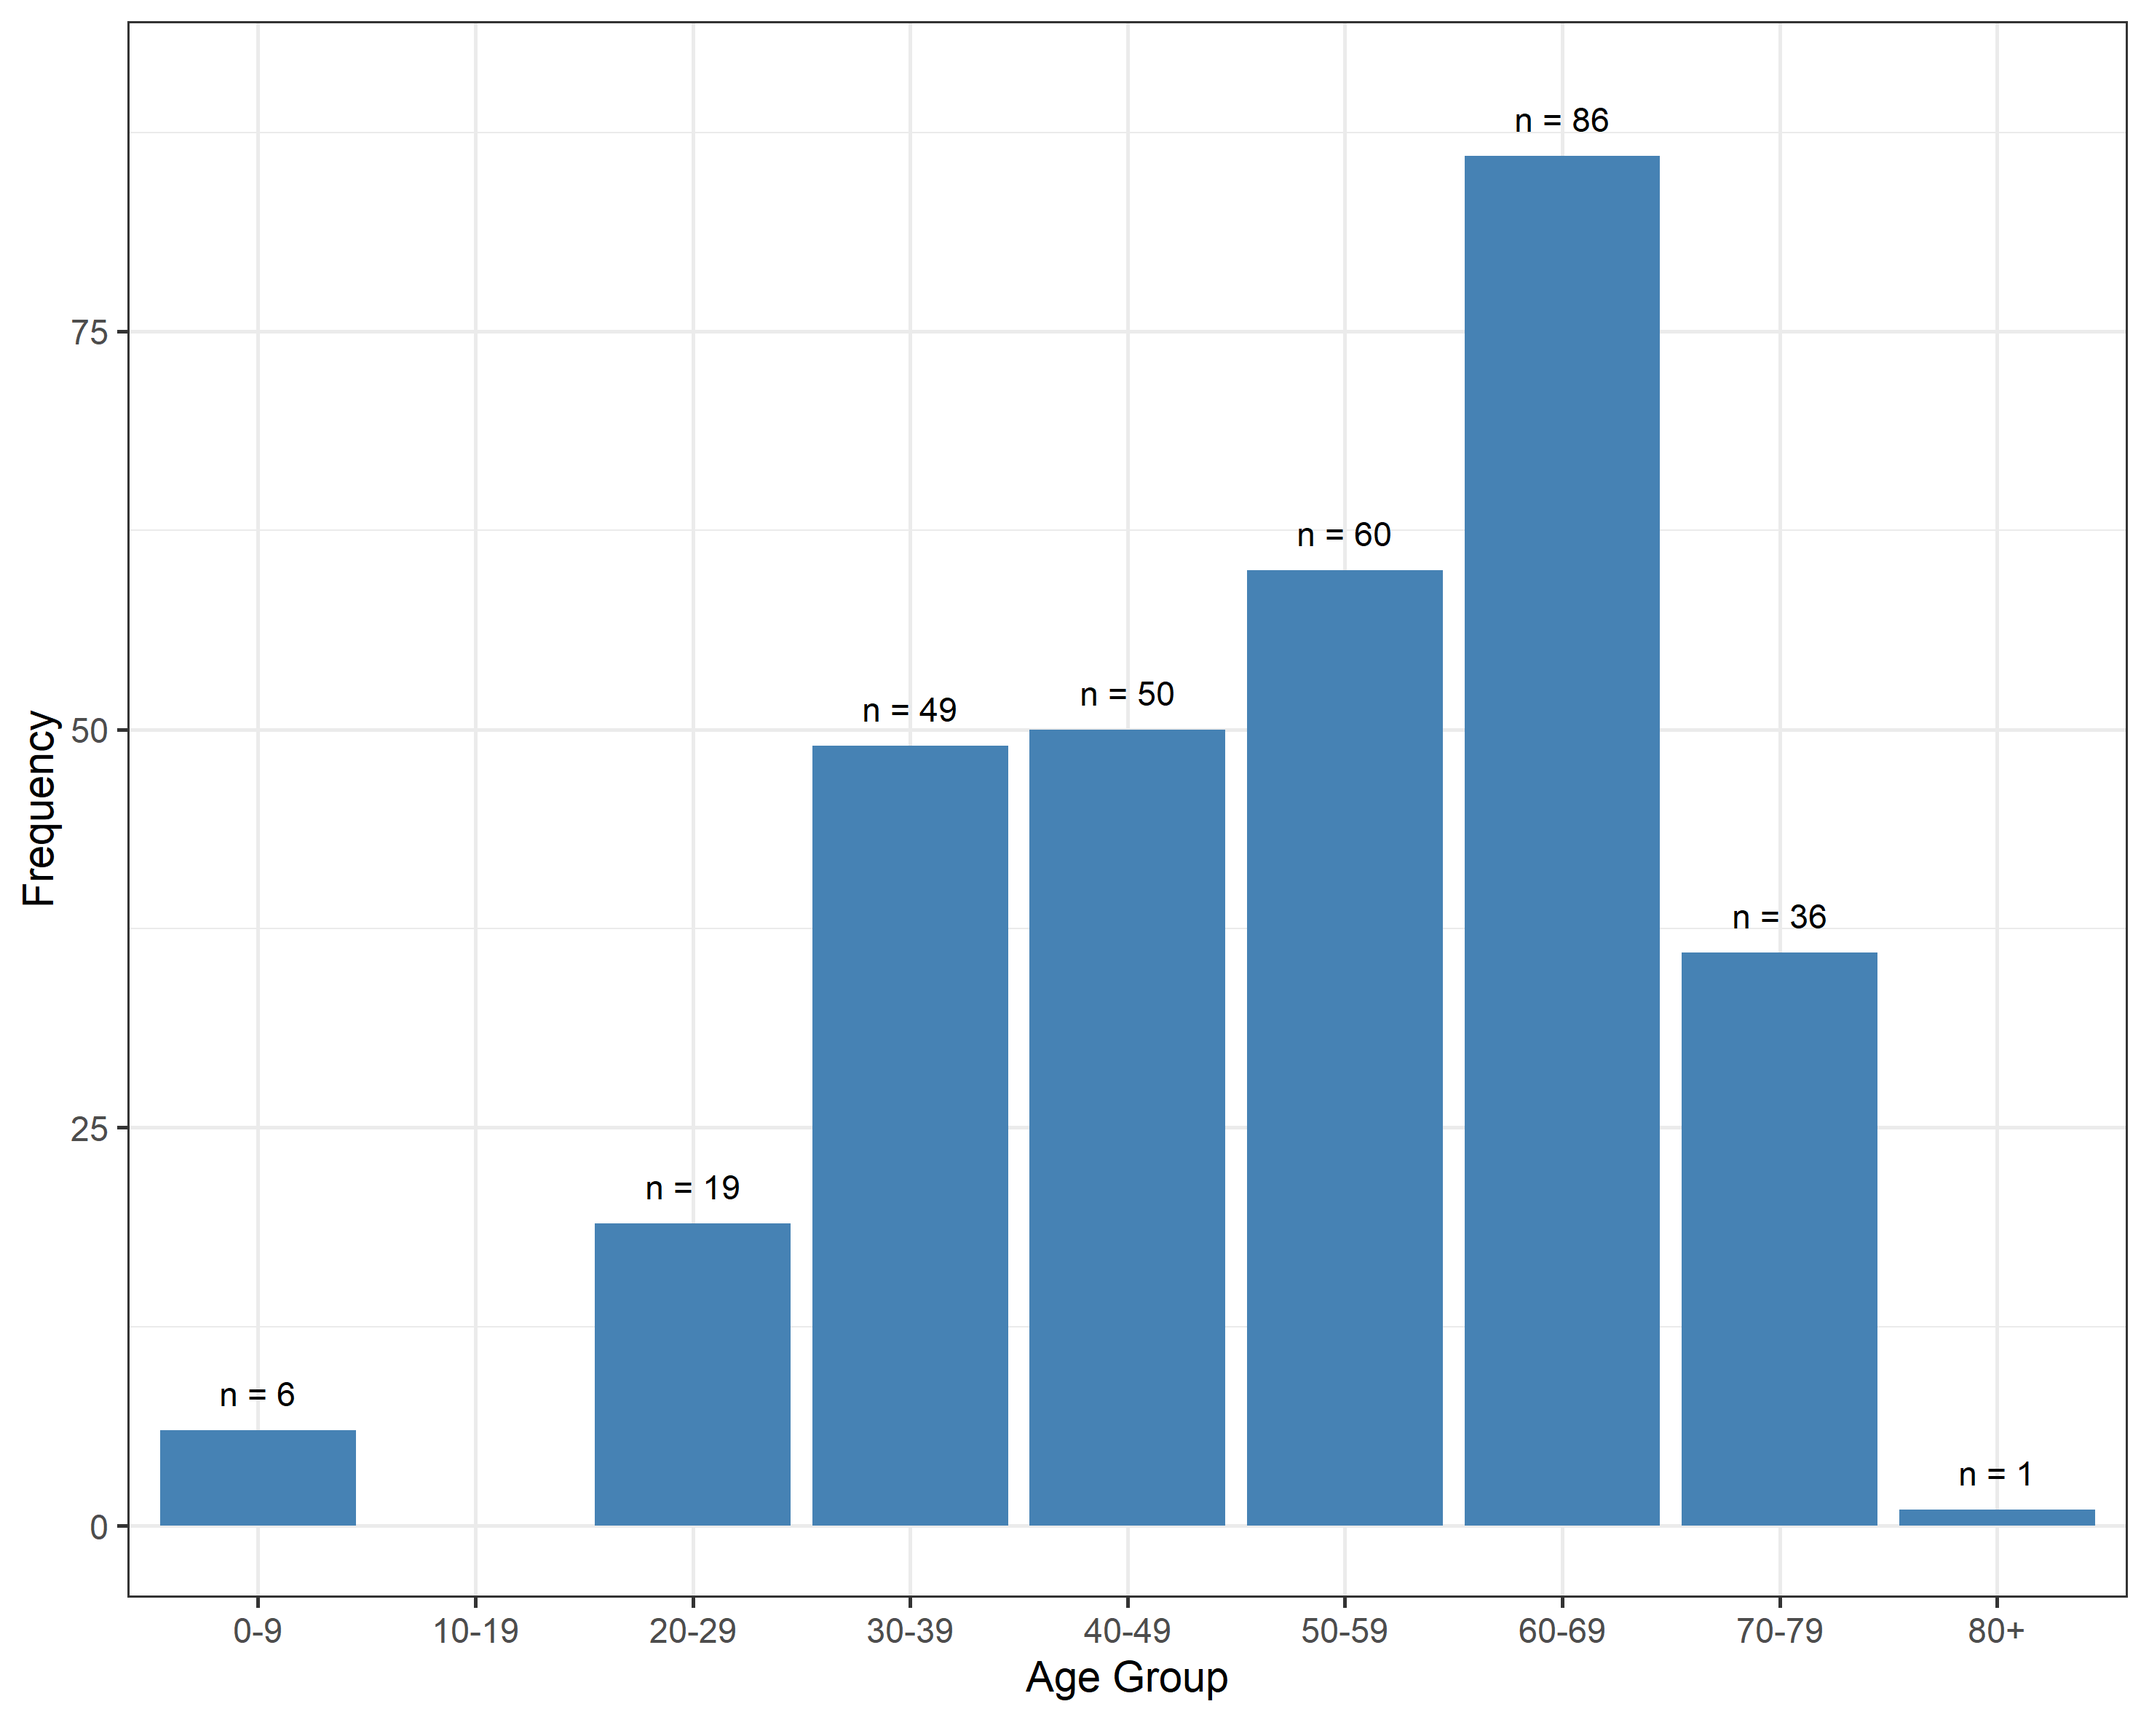
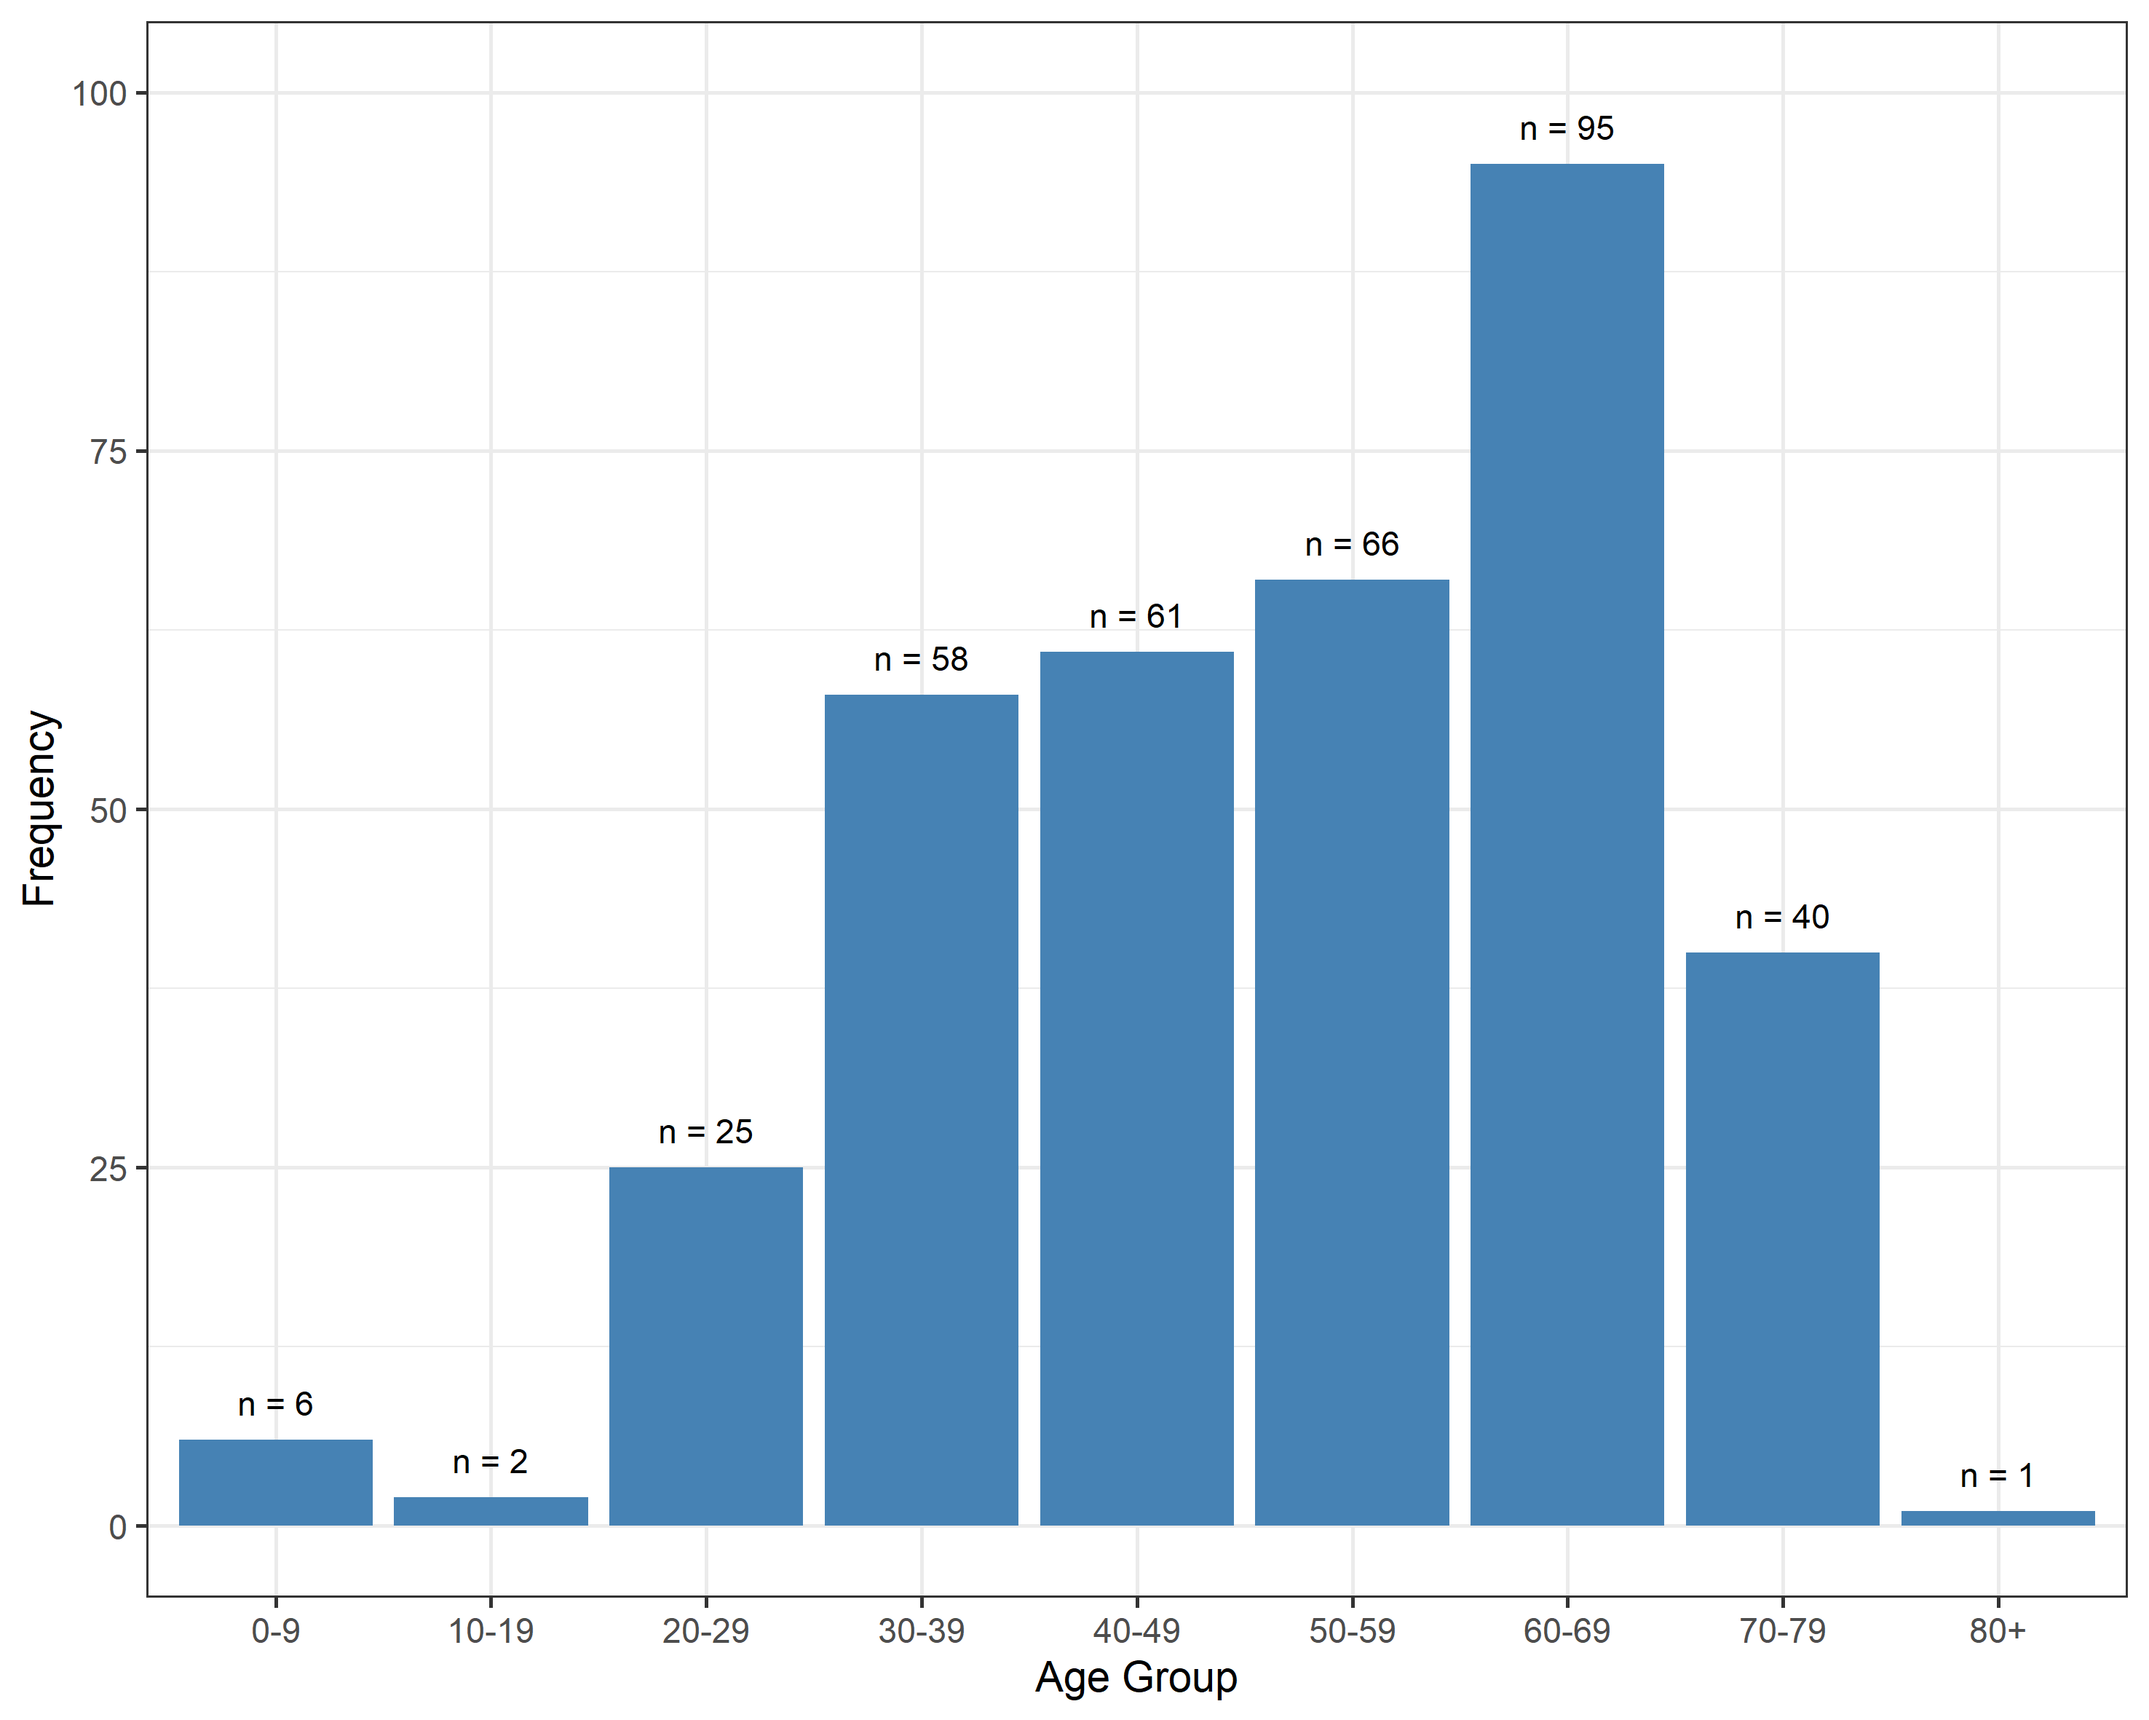
Results update April 6 2021

diff --git a/public/belgium/locales/nl-be/results/results-0.md b/public/belgium/locales/nl-be/results/results-0.md
@@ -1,4 +1,4 @@
-`Deze pagina is voor het laatst aangepast op 02.april.2021 16:00.`
+`Deze pagina is voor het laatst aangepast op 06.april.2021 17:00.`
 <br />
 
 Op deze pagina vindt u de actuele resultaten van Infectieradar.
@@ -7,7 +7,7 @@ Op deze pagina vindt u de actuele resultaten van Infectieradar.
 
 ## Achtergrond Informatie
 
-Op 2 april 2021 hadden we 307 deelnemers. 46.9% van de deelnemers is vrouw, en 53.1% is man. Een meerderheid van deelnemers (83.1%) rapporteerden dat ze nog geen Covid-19 hebben gehad. 3.6% van de deelnemers hebben in het verleden positief getest op Covid-19. 13.4% van de deelnemers hebben een sterk vermoeden dat ze Covid-19 hebben gehad.
+Op 6 april 2021 hadden we 355 deelnemers. 50.7% van de deelnemers is vrouw, en 49.3% is man. Een meerderheid van deelnemers (83.7%) rapporteerden dat ze nog geen Covid-19 hebben gehad. 4.2% van de deelnemers hebben in het verleden positief getest op Covid-19. 12.1% van de deelnemers hebben een sterk vermoeden dat ze Covid-19 hebben gehad.
 <br />
 
 ### Leeftijdsverdeling
@@ -25,7 +25,7 @@ Op 2 april 2021 hadden we 307 deelnemers. 46.9% van de deelnemers is vrouw, en 5
 
 ## Wekelijkse Symptomen
 
-Op 2 april 2021 hadden we 318 ingevulde wekelijkse symptomen vragenlijsten van 245 deelnemers. In 67.6% van de vragenlijsten werd gerapporteerd dat er *geen symptomen* waren.
+Op 6 april 2021 hadden we 514 ingevulde wekelijkse symptomen vragenlijsten van 319 deelnemers. In 69.5% van de vragenlijsten werd gerapporteerd dat er *geen symptomen* waren.
 
 ### Gerapporteerde symptomen
 In de figuur hieronder geven we procentueel aan hoe vaak een bepaald symptoom is gerapporteerd in de vragenlijsten waarbij minstens één symptoom werd doorgegeven.

diff --git a/public/belgium/locales/de-be/results/results-0.md b/public/belgium/locales/de-be/results/results-0.md
@@ -1,4 +1,4 @@
-`Diese Seite wurde zum letzten Mal angepasst am 02.apr.2021 16:00.`
+`Diese Seite wurde zum letzten Mal angepasst am 06.apr.2021 17:00.`
 <br />
 
 On this page you will be able to see the latest results from the data collected by Infectieradar.be.
@@ -7,7 +7,7 @@ On this page you will be able to see the latest results from the data collected 
 
 ## Background Information
 
-On April 2, 2021 we had 307 participants. 46.9% of the participants are female, and 53.1% male. The majority of the participants (83.1%) reported having no previous Covid-19 episode. 3.6% of the participants had a positive Covid-19 test in the past. 13.4% of the participants think they had a previous Covid-19 episode.
+On April 6, 2021 we had 355 participants. 50.7% of the participants are female, and 49.3% male. The majority of the participants (83.7%) reported having no previous Covid-19 episode. 4.2% of the participants had a positive Covid-19 test in the past. 12.1% of the participants think they had a previous Covid-19 episode.
 <br />
 
 ### Age distribution
@@ -25,7 +25,7 @@ On April 2, 2021 we had 307 participants. 46.9% of the participants are female, 
 
 ## Weekly Symptoms
 
-On April 2, 2021 we had 318 completed weekly symptom questionnaires from 245 participants. In 67.6% of the symptom questionnaires it was reported that there were *no symptoms*.
+On April 6, 2021 we had 514 completed weekly symptom questionnaires from 319 participants. In 69.5% of the symptom questionnaires it was reported that there were *no symptoms*.
 
 ### Reported symptoms
 

diff --git a/public/belgium/locales/fr-be/results/results-0.md b/public/belgium/locales/fr-be/results/results-0.md
@@ -1,4 +1,4 @@
-`Dernière modification de cette page le 2.apr.2021 16:00.`
+`Dernière modification de cette page le 6.apr.2021 17:00.`
 <br />
 
 On this page you will be able to see the latest results from the data collected by Infectieradar.be.
@@ -7,7 +7,7 @@ On this page you will be able to see the latest results from the data collected 
 
 ## Background Information
 
-On April 2, 2021 we had 307 participants. 46.9% of the participants are female, and 53.1% male. The majority of the participants (83.1%) reported having no previous Covid-19 episode. 3.6% of the participants had a positive Covid-19 test in the past. 13.4% of the participants think they had a previous Covid-19 episode.
+On April 6, 2021 we had 355 participants. 50.7% of the participants are female, and 49.3% male. The majority of the participants (83.7%) reported having no previous Covid-19 episode. 4.2% of the participants had a positive Covid-19 test in the past. 12.1% of the participants think they had a previous Covid-19 episode.
 <br />
 
 ### Age distribution
@@ -25,7 +25,7 @@ On April 2, 2021 we had 307 participants. 46.9% of the participants are female, 
 
 ## Weekly Symptoms
 
-On April 2, 2021 we had 318 completed weekly symptom questionnaires from 245 participants. In 67.6% of the symptom questionnaires it was reported that there were *no symptoms*.
+On April 6, 2021 we had 514 completed weekly symptom questionnaires from 319 participants. In 69.5% of the symptom questionnaires it was reported that there were *no symptoms*.
 
 ### Reported symptoms
 

diff --git a/public/belgium/locales/en/results/results-0.md b/public/belgium/locales/en/results/results-0.md
@@ -1,4 +1,4 @@
-`This page has been last updated at 02.apr.2021 16:00.`
+`This page has been last updated at 06.apr.2021 17:00.`
 <br />
 
 On this page you will be able to see the latest results from the data collected by Infectieradar.be.
@@ -7,7 +7,7 @@ On this page you will be able to see the latest results from the data collected 
 
 ## Background Information
 
-On April 2, 2021 we had 307 participants. 46.9% of the participants are female, and 53.1% male. The majority of the participants (83.1%) reported having no previous Covid-19 episode. 3.6% of the participants had a positive Covid-19 test in the past. 13.4% of the participants think they had a previous Covid-19 episode.
+On April 6, 2021 we had 355 participants. 50.7% of the participants are female, and 49.3% male. The majority of the participants (83.7%) reported having no previous Covid-19 episode. 4.2% of the participants had a positive Covid-19 test in the past. 12.1% of the participants think they had a previous Covid-19 episode.
 <br />
 
 ### Age distribution
@@ -25,7 +25,7 @@ On April 2, 2021 we had 307 participants. 46.9% of the participants are female, 
 
 ## Weekly Symptoms
 
-On April 2, 2021 we had 318 completed weekly symptom questionnaires from 245 participants. In 67.6% of the symptom questionnaires it was reported that there were *no symptoms*.
+On April 6, 2021 we had 514 completed weekly symptom questionnaires from 319 participants. In 69.5% of the symptom questionnaires it was reported that there were *no symptoms*.
 
 ### Reported symptoms
 
